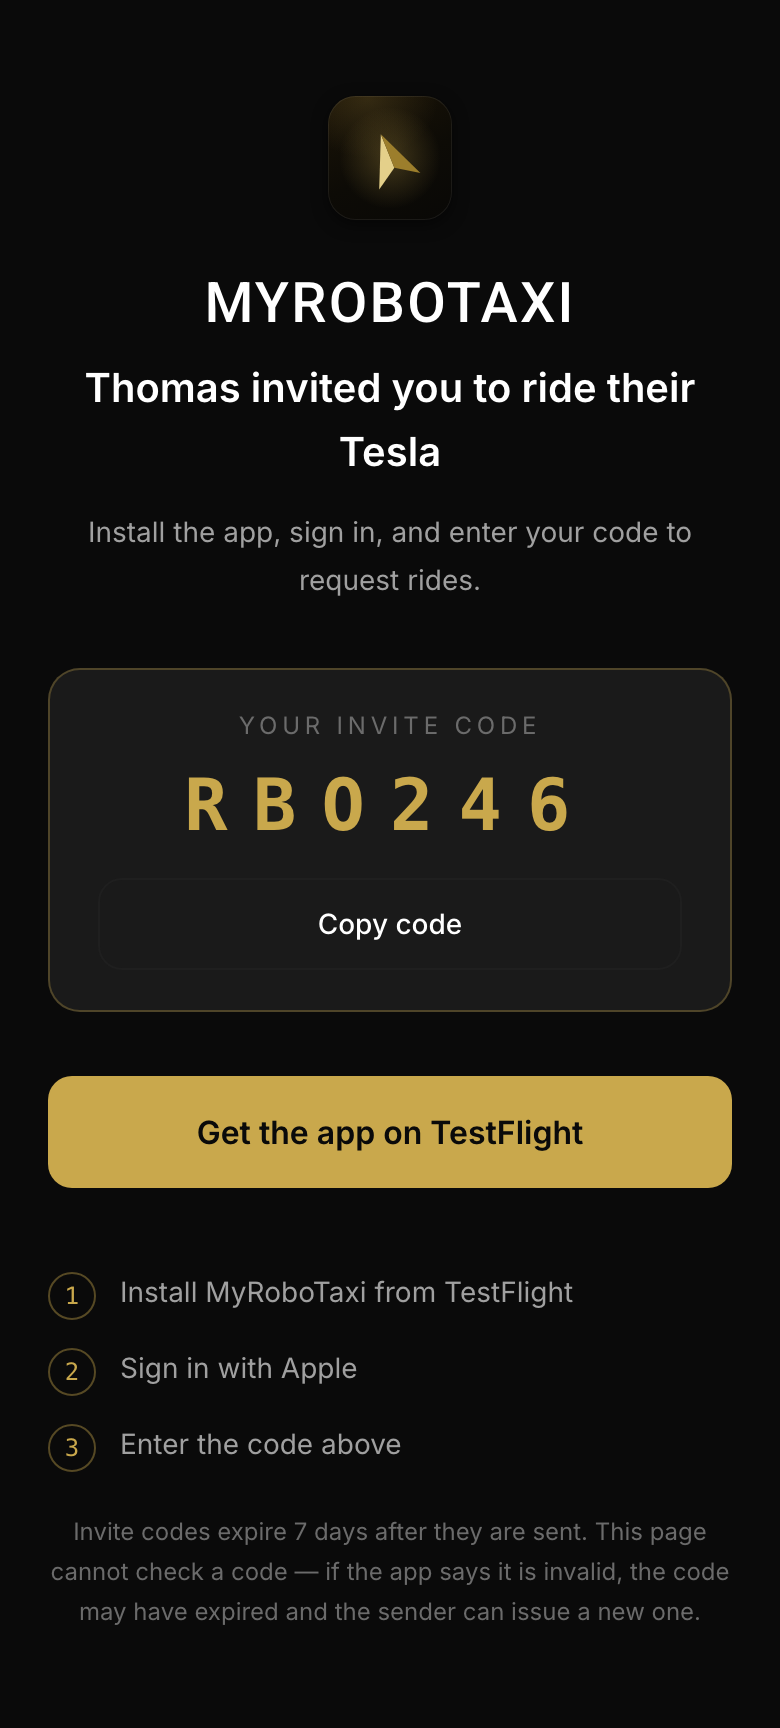
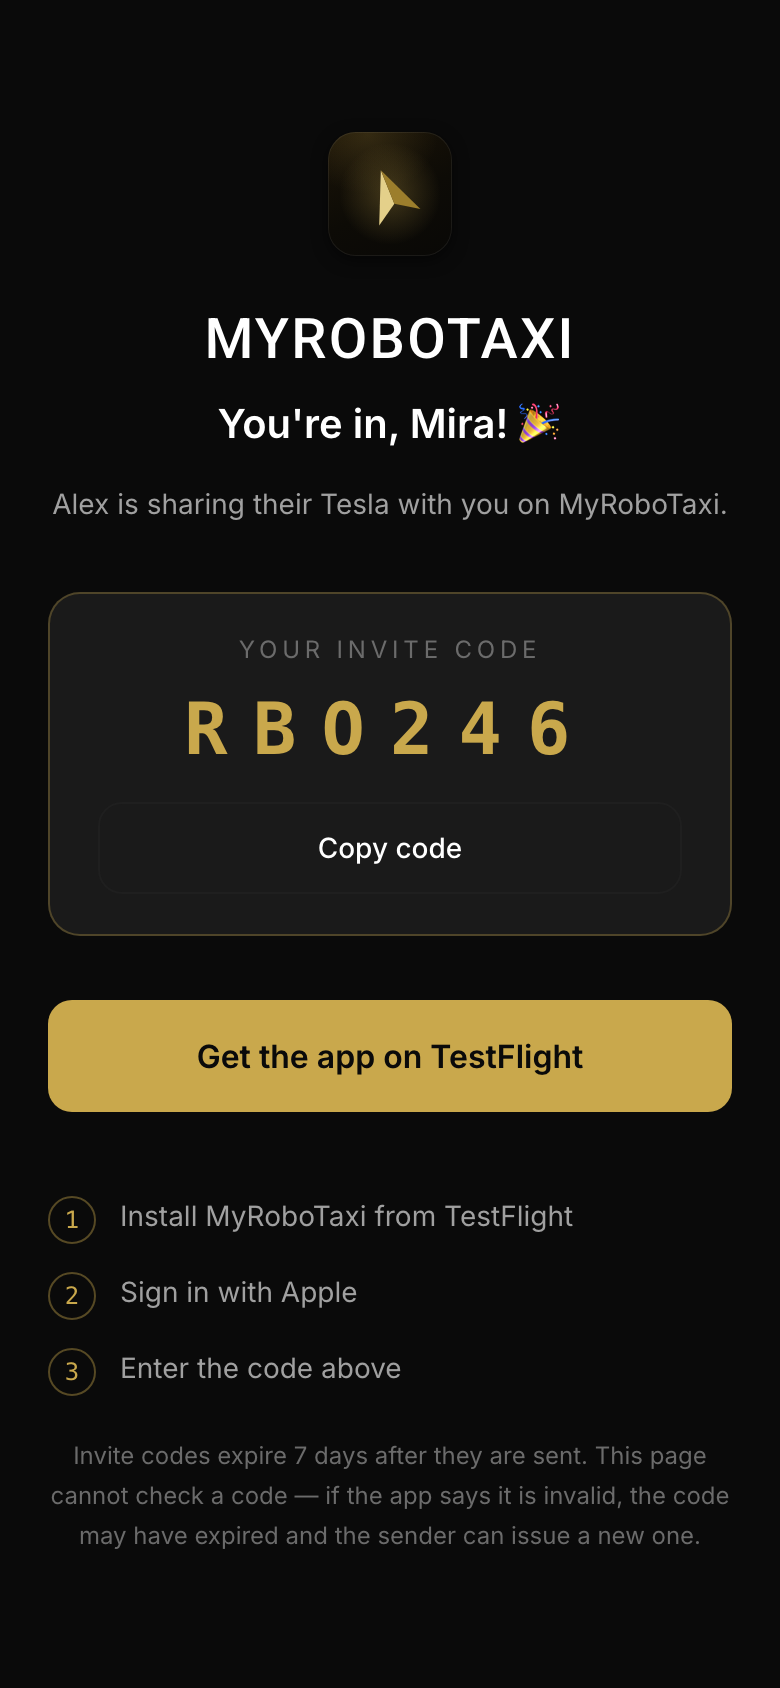
Recapture the join screenshots from signed links
MYR-368. The shots now need a dev server told to trust the suite's test key —
the production signing seed is a Fly secret no local process holds, so a
production build cannot render an invite page for a screenshot.

The script moves to TypeScript so it signs with the same helper the Playwright
suite uses: a shot can never be captured from a link the suite would reject.
Adds the owner-only variant and the unsigned-link redirect; drops the stale
invalid-code shot, whose URL now has different behaviour.

diff --git a/scripts/screenshot-join.ts b/scripts/screenshot-join.ts
@@ -2,32 +2,59 @@
  * Captures the public pages — the coming-soon teaser at the apex and the invite
  * landing — for the PR description.
  *
- * Expects a server on BASE (default http://localhost:3100 — the production
- * build via `npm run start`, so the lockdown proxy is exercised too: every path
- * below other than `/` and `/join/{CODE}` would 302 to `/`).
+ * SINCE MYR-368 THIS NEEDS A DEV SERVER, not a production build. The invite
+ * page rejects any link it cannot verify, and the production signing seed is a
+ * Fly secret that no local process holds, so the shots are taken against a
+ * server told to trust the suite's throwaway keypair — an override
+ * `lib/invite-signature.ts` reads only when `NODE_ENV !== 'production'`.
  *
- * Run: node scripts/screenshot-join.mjs
+ * The lockdown stays ON (its default), so `/` is the teaser rather than the
+ * app's authenticated Home — which is what a rejected link has to land on for
+ * the shot to mean anything.
+ *
+ * Run:
+ *
+ *   INVITE_LINK_TEST_PUBLIC_KEY=$(npx tsx --eval \
+ *     "import { TEST_INVITE_PUBLIC_KEY_B64 } from './e2e/helpers/invite-link'; \
+ *      console.log(TEST_INVITE_PUBLIC_KEY_B64);") npx next dev -p 3100
+ *   npx tsx scripts/screenshot-join.ts
+ *
+ * TypeScript, run under `tsx` rather than plain `node`: the links are signed by
+ * the same helper the Playwright suite uses, so a shot can never be captured
+ * from a link the suite would not accept.
  */
 import { chromium } from 'playwright';
 import { mkdirSync } from 'fs';
 
+import { signedJoinLink } from '../e2e/helpers/invite-link';
+
 const BASE = process.env.BASE ?? 'http://localhost:3100';
 const OUT = './screenshots';
 
-const shots = [
+interface Shot {
+  path: string;
+  name: string;
+  viewport?: { width: number; height: number };
+}
+
+const shots: Shot[] = [
   // The root: what anyone who types the bare domain gets, phone and desktop.
   { path: '/', name: '20-coming-soon-root' },
   { path: '/', name: '21-coming-soon-root-desktop', viewport: { width: 1280, height: 800 } },
-  { path: '/join/RBO246', name: '10-join-with-code' },
-  // No `/join` shot: the codeless landing is retired behind a 302 to `/`, and
-  // that redirect carries a Location of AUTH_URL — so capturing it here would
-  // photograph the production site rather than the build under test.
-  { path: '/join/not-a-code', name: '12-join-invalid-code' },
-  // MYR-359 — the same page named by the link, and the guard that a name which
-  // is not plainly a name falls back to the generic heading.
-  { path: '/join/RBO246?from=Thomas', name: '14-join-personalized' },
+
+  // MYR-368 — the three approved copy variants, each on a signed link.
+  { path: signedJoinLink('RBO246'), name: '10-join-with-code' },
+  { path: signedJoinLink('RBO246', { from: 'Alex', to: 'Mira' }), name: '14-join-personalized' },
+  { path: signedJoinLink('RBO246', { from: 'Alex' }), name: '16-join-owner-only' },
+
+  // The rejections, both landing on the teaser: a link with no signature at
+  // all, and one whose name was edited after signing.
+  { path: '/join/RBO246?from=Alex&to=Mira', name: '17-join-unsigned-redirects' },
+
+  // A signed name that is still not plainly a name. The signature covers it;
+  // `sanitizeInviterName` declines it anyway, and the generic copy renders.
   {
-    path: `/join/RBO246?from=${encodeURIComponent('<script>alert(1)</script>')}`,
+    path: signedJoinLink('RBO246', { from: '<script>alert(1)</script>' }),
     name: '15-join-junk-from-falls-back',
   },
 ];
@@ -48,6 +75,10 @@ async function run() {
     // whole viewport, so it is worth seeing on a wide one too).
     if (shot.viewport) await page.setViewportSize(shot.viewport);
     await page.goto(`${BASE}${shot.path}`, { waitUntil: 'networkidle' });
+    // `next dev` paints its dev-tools badge into a <nextjs-portal>. It is not
+    // part of the page and must not appear in a PR screenshot — the price of
+    // shooting against a dev server, which MYR-368 made necessary.
+    await page.addStyleTag({ content: 'nextjs-portal { display: none !important; }' });
     await page.screenshot({ path: `${OUT}/${shot.name}.png`, fullPage: true });
     await page.close();
     console.log(`Captured ${shot.path} -> ${OUT}/${shot.name}.png`);
